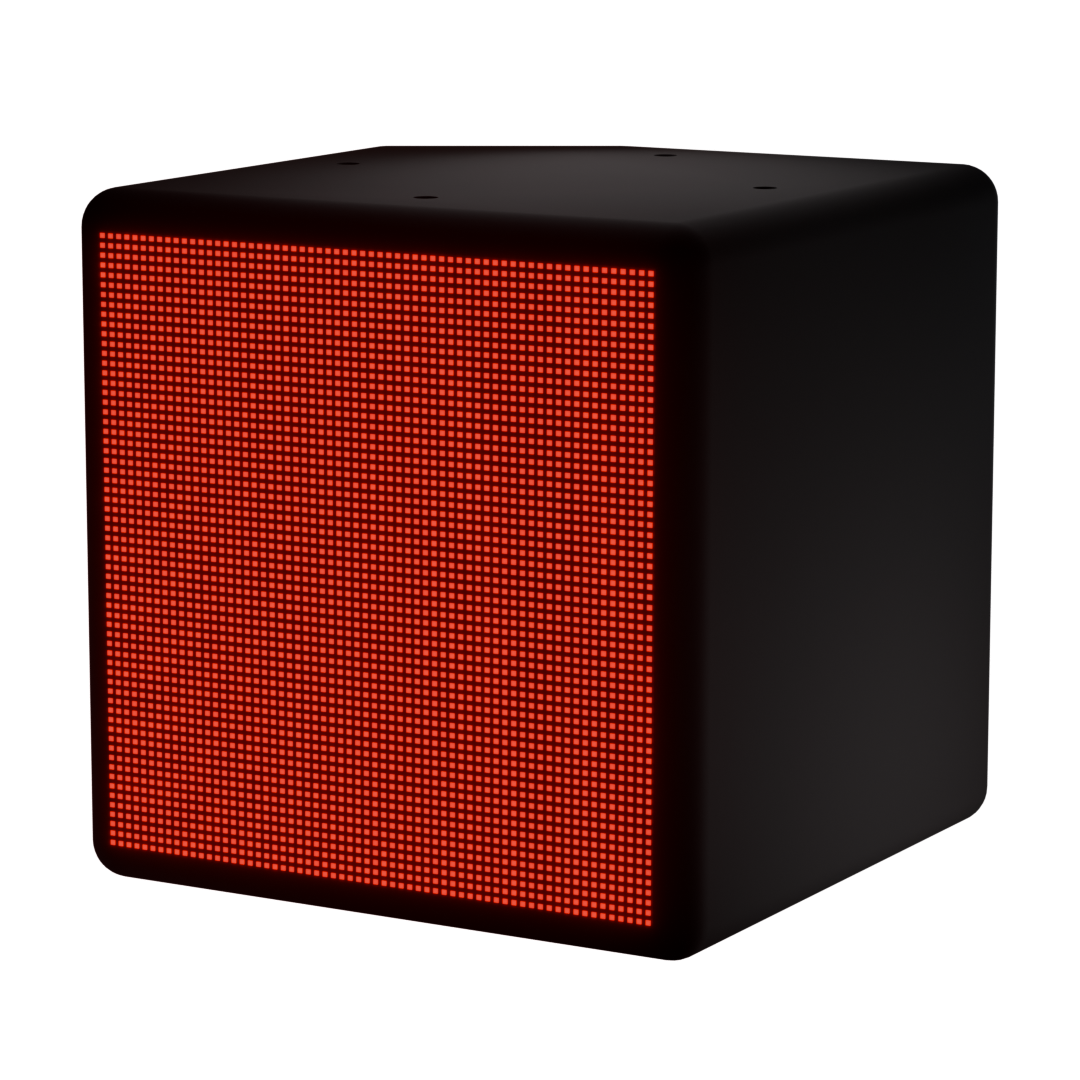
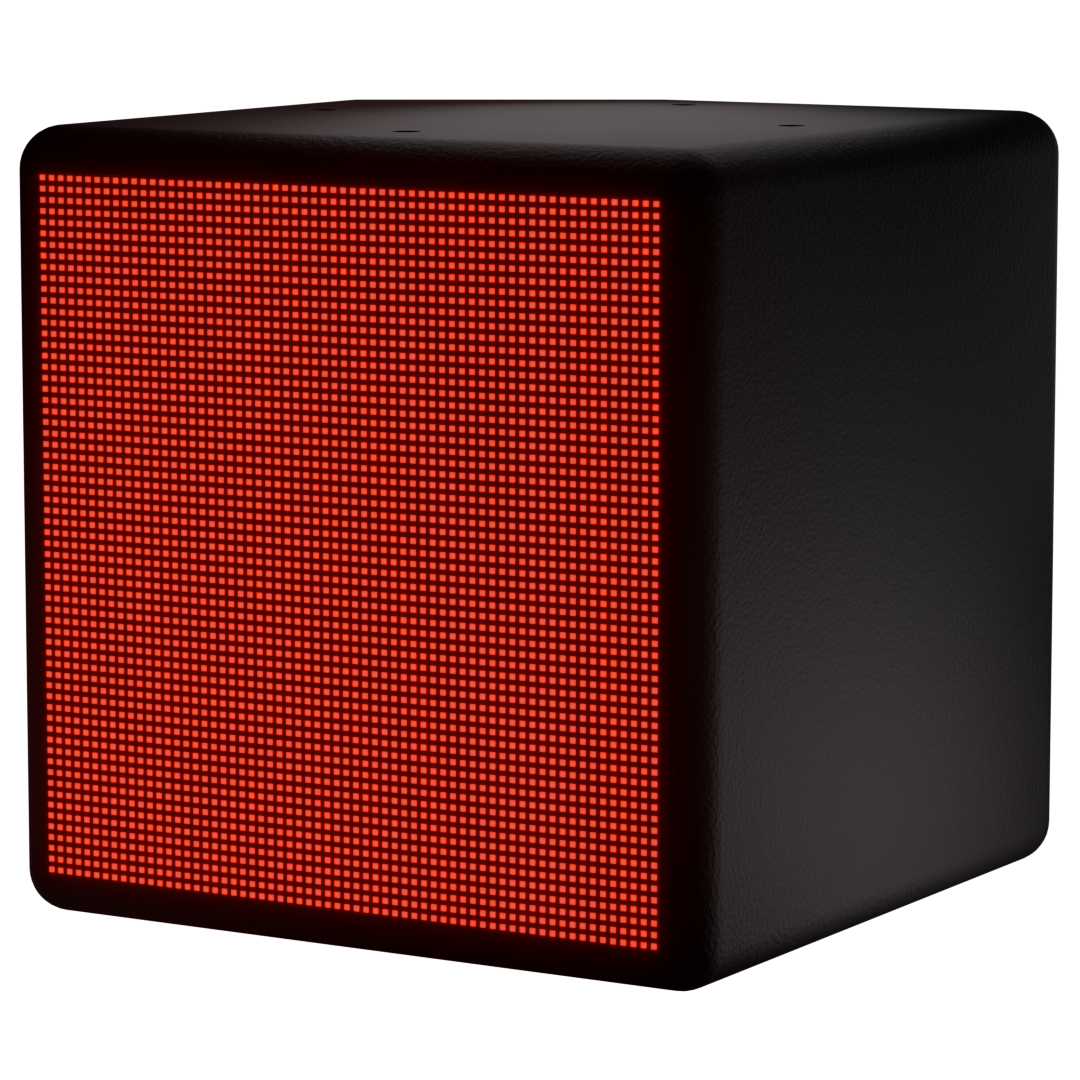
.

diff --git a/index.html b/index.html
@@ -267,9 +267,8 @@
              <li>Python</li>
              <li>Swift</li>
              <li>Java</li>
-             <li>Git</li>
+             <li>SQL</li>
             </ul>
-            <p class="stack-card-cue" aria-hidden="true">Scroll to layer the next card <span>↓</span></p>
           </article>
         </li>
 
@@ -282,7 +281,6 @@
               <p class="stack-card-copy">Designing and building responsive interfaces with attention to hierarchy, interaction, motion, and usability across different screens.</p>
             </div>
             <ul class="stack-card-tools" aria-label="Web development technologies"><li>HTML</li><li>CSS</li><li>JavaScript</li><li>Responsive Design</li></ul>
-            <p class="stack-card-cue" aria-hidden="true">Keep scrolling <span>↓</span></p>
           </article>
         </li>
 
@@ -295,7 +293,6 @@
               <p class="stack-card-copy">Exploring embedded computing by combining electronics, Linux, sensors, displays, audio, and software into complete physical systems.</p>
             </div>
             <ul class="stack-card-tools" aria-label="Development workflow tools"><li>Raspberry Pi</li><li>Linux</li><li>Electronics</li><li>HUB75</li></ul>
-            <p class="stack-card-cue" aria-hidden="true">One more layer <span>↓</span></p>
           </article>
         </li>
 
@@ -308,7 +305,6 @@
               <p class="stack-card-copy">Moving quickly between digital models and physical prototypes, iterating around dimensions, usability, manufacturability, and appearance.</p>
             </div>
             <ul class="stack-card-tools" aria-label="Design practices"><li>Fusion 360</li><li>Blender</li><li>3D Printing</li><li>Rapid Prototyping</li></ul>
-            <p class="stack-card-cue" aria-hidden="true">End of stack <span>↘</span></p>
           </article>
         </li>
       </ol>
@@ -385,7 +381,7 @@
 
       <div class="projects-card-meta">
         <span>Local AI home assistant</span>
-        <span>AI / Raspberry Pi / Smart Home</span>
+        <span>Local AI / Embedded Systems / Product Design</span>
       </div>
 
       <p class="projects-card-summary">

diff --git a/styles/projects-section.css b/styles/projects-section.css
@@ -224,7 +224,7 @@
 }
 
 .projects-cube-shot {
-  right: 5.5%;
+  right: 3%;
   top: 10%;
   height: 80%;
   opacity: 0.63;
